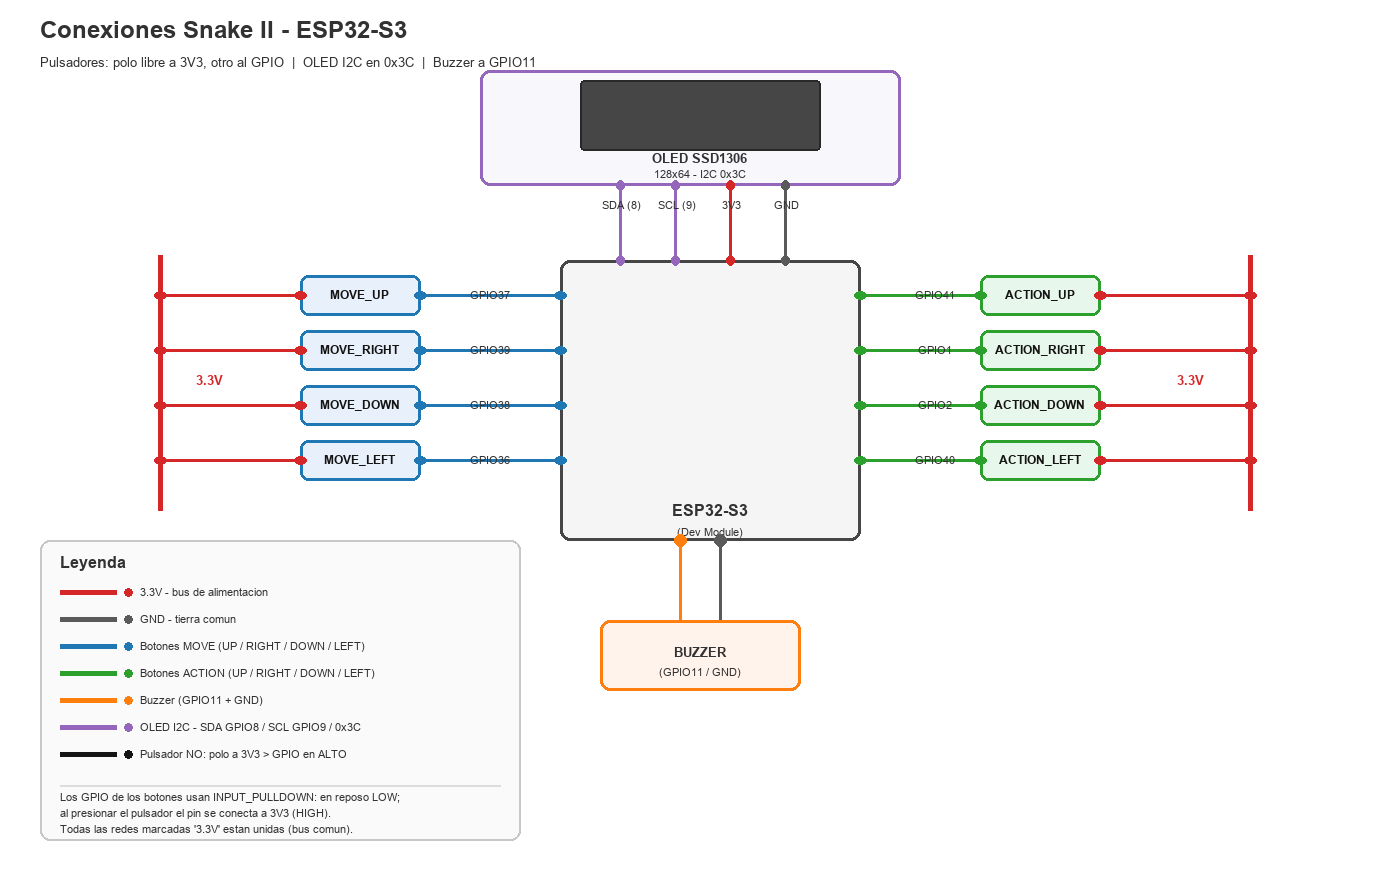
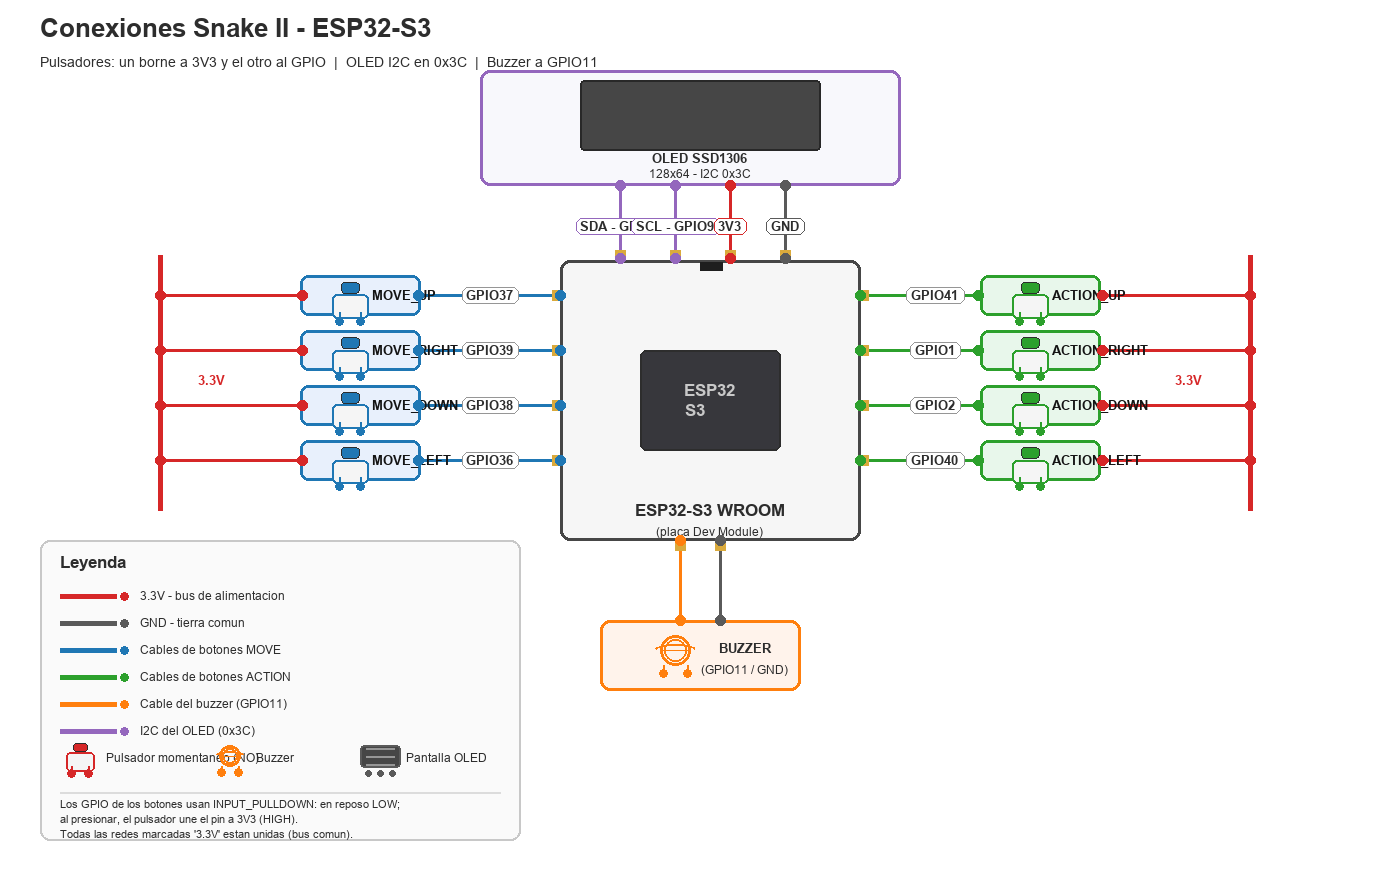
Diagrama de conexiones: etiquetas GPIO legibles + pictogramas

diff --git a/PROYECTO.md b/PROYECTO.md
@@ -361,6 +361,10 @@ opciones (`Nuevo, Continuar, Dificultad, Sonido, Creditos`) tamaño 2 en una pil
 - **[2026-09-17] `Menu`: navegación en subrutina y solo `MOVE_UP`/`MOVE_DOWN`**: se
   separa la navegación en `Menu::navigate()` (como `animate()`); solo `MOVE_UP`/
   `MOVE_DOWN` navegan (los 4 botones de Acción ya no mueven el cursor).
+- **[2026-09-17] Diagrama de conexiones mejorado**: en `Conexiones_Snake_II_ESP32S3.png`
+  se agrandan las etiquetas GPIO (con fondo blanco para que se lean sobre los cables)
+  y se agregan pictogramas de los elementos (pulsador, buzzer, OLED, chip ESP32-S3
+  con pads dorados y puerto USB-C).
 - **[2026-09-17] Diagrama de conexiones**: se genera `Conexiones_Snake_II_ESP32S3.png`
   (botones MOVE y ACTION a sus GPIO con pull a 3V3, OLED I2C en 8/9 dir 0x3C, buzzer
   en GPIO11) para dejar claro cómo se conecta cada elemento a la placa ESP32-S3.
